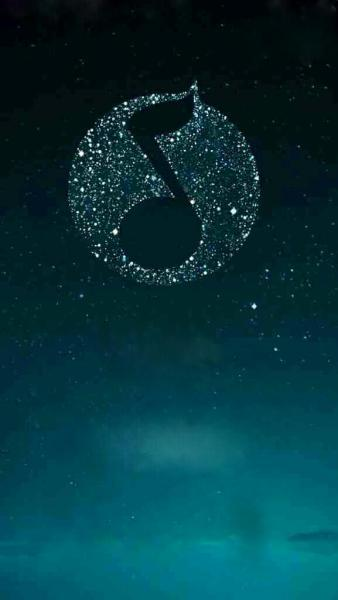
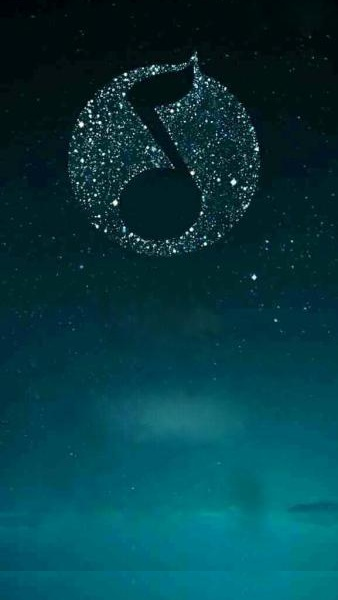
1

diff --git a/qqmusic/css/index.css b/qqmusic/css/index.css
@@ -38,14 +38,14 @@ html,body,.container{
 /************************ logo 图片 ***********************/
 .container .logo{
     width: 100%;
-    height: 50vw;
+    height: 44vw;
     display: flex;
     justify-content: center;
     align-items: center; 
 }
 .container .logo img{
     width: 50vw;
-    height: 40vw;
+    height: 38vw;
 }
 
 /************************ lyric 歌词 ***********************/
@@ -59,7 +59,7 @@ html,body,.container{
 .container .lyric ul li{
     width: 100%;
     text-align: center;
-    line-height: 10vw;
+    line-height: 8vw;
     font-size: 4vw;
     color: #fff;
 }
